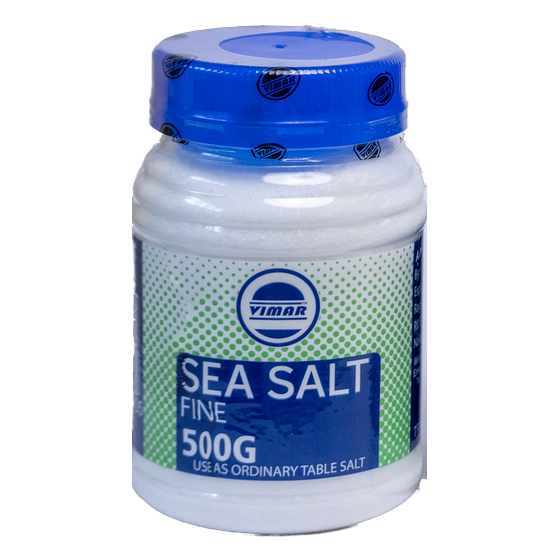
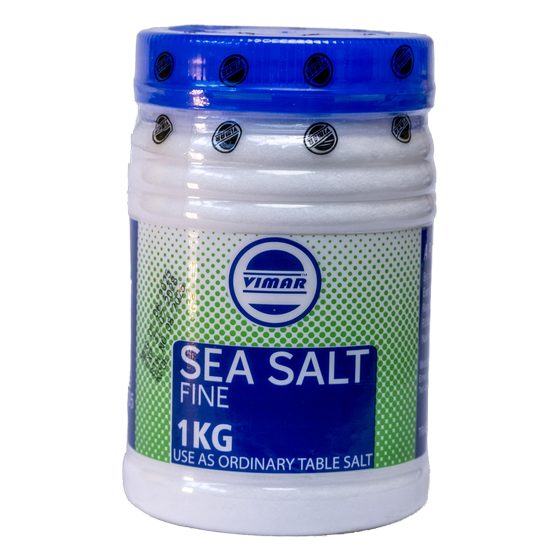
Speed up the hero stage, recut the jars, bust asset caches
Switching
- Interval drops from 5s to 3s.
- Reduced motion no longer stops the timer. It still advances, the CSS just
  collapses the transitions so the product swaps without movement. Stopping
  outright left the hero looking frozen for anyone with "reduce motion" set in
  their OS, which is the likeliest reason it appeared static.
- styles.css and script.js now carry ?v= markers. GitHub Pages caches these
  hard, so a deploy could leave a browser running the previous script against
  the new markup with no visible change.

Cut-outs recut from isolated originals
- The first set was split out of the four-jar line-up, which left a dark sliver
  of the neighbouring Coarse jar down the pink jar's left edge and clipped its
  label through "IODISED".
- Every product has its own isolated studio shot, so each cut-out now comes
  from one of those: no seams, no neighbours, complete label.
- Captions and alt text corrected to the pack size actually printed on each
  jar: Fine 1kg, Fine Powder 1kg, Coarse 1kg, Pink Salt 300g iodised. They
  previously all claimed 500g.

diff --git a/index.html b/index.html
@@ -242,7 +242,7 @@
     <link rel="preconnect" href="https://fonts.gstatic.com" crossorigin>
     <link href="https://fonts.googleapis.com/css2?family=Inter:wght@300;400;500;600;700;800;900&family=Playfair+Display:wght@600;700;800;900&display=swap" rel="stylesheet">
     <link rel="stylesheet" href="https://unpkg.com/leaflet@1.9.4/dist/leaflet.css" />
-    <link rel="stylesheet" href="styles.css">
+    <link rel="stylesheet" href="styles.css?v=4">
 </head>
 <body class="main-page" id="top">
     
@@ -358,35 +358,35 @@
             <div class="hero-stage" id="heroStage">
                 <div class="stage-glow" aria-hidden="true"></div>
                 <div class="stage-items">
-                    <figure class="stage-item is-active" data-name="Sea Salt Fine" data-meta="Iodized &middot; 500g" data-tint="52, 168, 108">
+                    <figure class="stage-item is-active" data-name="Sea Salt Fine" data-meta="Iodized &middot; 1kg" data-tint="52, 168, 108">
                         <picture>
                             <source srcset="assets/cutouts/fine.webp" type="image/webp">
-                            <img src="assets/cutouts/fine.png" alt="VIMAR Sea Salt Fine, iodized, 500g jar" width="560" height="560" fetchpriority="high" decoding="async">
+                            <img src="assets/cutouts/fine.png" alt="VIMAR Sea Salt Fine, iodized, 1kg jar" width="560" height="560" fetchpriority="high" decoding="async">
                         </picture>
                     </figure>
-                    <figure class="stage-item" data-name="Sea Salt Fine Powder" data-meta="Baking &middot; 500g" data-tint="214, 78, 74">
+                    <figure class="stage-item" data-name="Sea Salt Fine Powder" data-meta="Baking &middot; 1kg" data-tint="214, 78, 74">
                         <picture>
                             <source srcset="assets/cutouts/powder.webp" type="image/webp">
-                            <img src="assets/cutouts/powder.png" alt="VIMAR Sea Salt Fine Powder, 500g jar" width="560" height="560" loading="lazy" decoding="async">
+                            <img src="assets/cutouts/powder.png" alt="VIMAR Sea Salt Fine Powder, 1kg jar" width="560" height="560" loading="lazy" decoding="async">
                         </picture>
                     </figure>
-                    <figure class="stage-item" data-name="Sea Salt Coarse" data-meta="Brining &middot; 500g" data-tint="226, 178, 44">
+                    <figure class="stage-item" data-name="Sea Salt Coarse" data-meta="Brining &middot; 1kg" data-tint="226, 178, 44">
                         <picture>
                             <source srcset="assets/cutouts/coarse.webp" type="image/webp">
-                            <img src="assets/cutouts/coarse.png" alt="VIMAR Sea Salt Coarse, 500g jar" width="560" height="560" loading="lazy" decoding="async">
+                            <img src="assets/cutouts/coarse.png" alt="VIMAR Sea Salt Coarse, 1kg jar" width="560" height="560" loading="lazy" decoding="async">
                         </picture>
                     </figure>
-                    <figure class="stage-item" data-name="Himalayan Pink Salt" data-meta="Gourmet &middot; 500g" data-tint="226, 122, 158">
+                    <figure class="stage-item" data-name="Himalayan Pink Salt" data-meta="Iodised &middot; 300g" data-tint="226, 122, 158">
                         <picture>
                             <source srcset="assets/cutouts/pink.webp" type="image/webp">
-                            <img src="assets/cutouts/pink.png" alt="VIMAR Himalayan Pink Salt, 500g jar" width="560" height="560" loading="lazy" decoding="async">
+                            <img src="assets/cutouts/pink.png" alt="VIMAR Himalayan Pink Salt, iodised, 300g jar" width="560" height="560" loading="lazy" decoding="async">
                         </picture>
                     </figure>
                 </div>
                 <div class="stage-pool" aria-hidden="true"></div>
                 <div class="stage-meta">
                     <p class="stage-cap" id="stageCap" aria-live="polite">
-                        <b>Sea Salt Fine</b><span>Iodized &middot; 500g</span>
+                        <b>Sea Salt Fine</b><span>Iodized &middot; 1kg</span>
                     </p>
                     <div class="stage-dots" id="stageDots" role="tablist" aria-label="Choose a product"></div>
                 </div>
@@ -1063,6 +1063,6 @@
 
 <!-- Scripts -->
 <script src="https://unpkg.com/leaflet@1.9.4/dist/leaflet.js"></script>
-<script src="script.js" defer></script>
+<script src="script.js?v=4" defer></script>
 </body>
 </html>

diff --git a/script.js b/script.js
@@ -558,7 +558,7 @@
         const cap = $('#stageCap');
         if (items.length < 2 || !dotsWrap || !cap) return;
 
-        const INTERVAL = 5000;
+        const INTERVAL = 3000;
         let current = 0;
         let timer = null;
         let hovered = false;
@@ -616,7 +616,11 @@
 
         function start() {
             stop();
-            if (hovered || !inView || prefersReducedMotion) return;
+            if (hovered || !inView) return;
+            // Reduced motion still advances, it just does not animate: the CSS
+            // collapses the transitions, so the product swaps without movement.
+            // Stopping the timer outright left the hero looking broken for
+            // anyone with "reduce motion" enabled in their OS.
             timer = setInterval(tick, INTERVAL);
         }
 

diff --git a/pink-salt.html b/pink-salt.html
@@ -161,8 +161,8 @@
     <link rel="preconnect" href="https://fonts.googleapis.com">
     <link rel="preconnect" href="https://fonts.gstatic.com" crossorigin>
     <link href="https://fonts.googleapis.com/css2?family=Inter:wght@300;400;500;600;700;800;900&family=Playfair+Display:wght@600;700;800;900&family=Cormorant+Garamond:wght@300;400;500;600;700&display=swap" rel="stylesheet">
-    <link rel="stylesheet" href="styles.css">
-    <link rel="stylesheet" href="pink-salt-styles.css">
+    <link rel="stylesheet" href="styles.css?v=4">
+    <link rel="stylesheet" href="pink-salt-styles.css?v=4">
 </head>
 <body class="pink-salt-page">
     
@@ -693,6 +693,6 @@
         </div>
     </footer>
 
-    <script src="pink-salt-script.js"></script>
+    <script src="pink-salt-script.js?v=4"></script>
 </body>
 </html>
